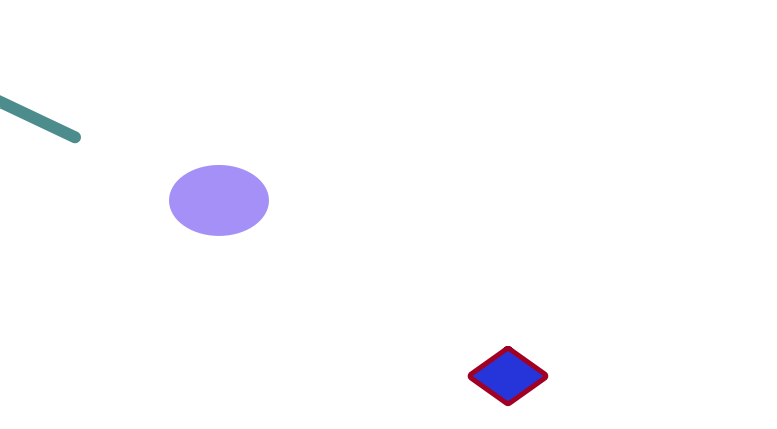
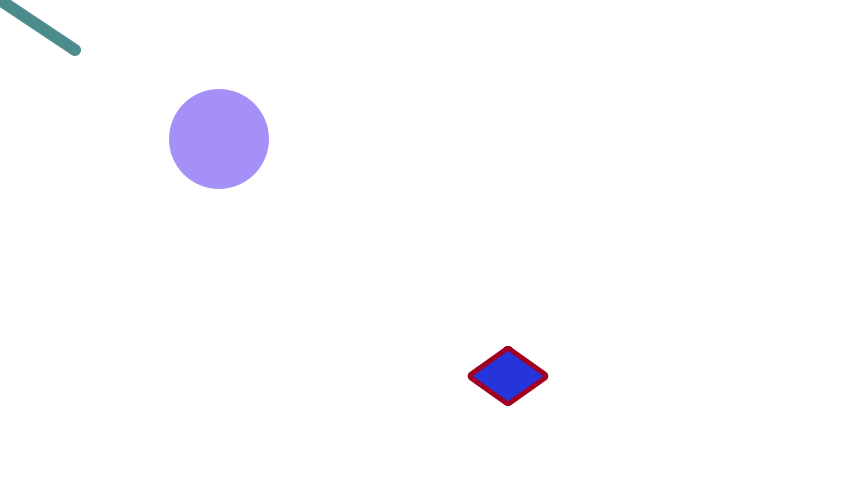
Fix skewing issues

diff --git a/src/fabricShape.go b/src/fabricShape.go
@@ -1,45 +1,10 @@
 package main
 
 import (
-	"math"
 	"strings"
 
 	"github.com/fogleman/gg"
 )
-
-type fabricBaseObject struct {
-	Version string        `json:"version"`
-	Objects []fabricShape `json:"objects"`
-}
-
-func (f *fabricBaseObject) GetBounds() (float64, float64) {
-	minX := 0.0
-	minY := 0.0
-	maxX := math.Inf(-1)
-	maxY := math.Inf(-1)
-
-	for _, o := range f.Objects {
-		// Get the bounds of a shape--keeping in mind its rotation
-		width := math.Sin(o.Angle)*o.Height + math.Cos(o.Angle)*o.Width + o.StrokeWidth
-		height := math.Sin(o.Angle)*o.Width + math.Cos(o.Angle)*o.Height + o.StrokeWidth
-
-		minX = math.Min(o.Left, minX)
-		minY = math.Min(o.Top, minY)
-		maxX = math.Max(o.Left+width, maxX)
-		maxY = math.Max(o.Top+height, maxY)
-	}
-
-	// Doesn't make sense to make an image negative width or height
-	if maxX < 0 {
-		maxX = 0
-	}
-
-	if maxY < 0 {
-		maxY = 0
-	}
-
-	return maxX - minX, maxY - minY
-}
 
 type fabricShape struct {
 	ShapeType   string  `json:"type"`
@@ -88,7 +53,9 @@ func (s *fabricShape) drawShapeType(ctx *gg.Context) {
 	}
 }
 
+// Adds the current shape to the gg canvas
 func (s *fabricShape) Parse(ctx *gg.Context) {
+	ctx.Push()
 	if s.ScaleX != 1 || s.ScaleY != 1 {
 		ctx.ScaleAbout(s.ScaleX, s.ScaleY, s.Left, s.Top)
 	}
@@ -111,11 +78,5 @@ func (s *fabricShape) Parse(ctx *gg.Context) {
 		ctx.Fill()
 	}
 
-	if s.Angle != 0 {
-		ctx.RotateAbout(-gg.Radians(s.Angle), s.Left, s.Top)
-	}
-
-	if s.ScaleX != 1 || s.ScaleY != 1 {
-		ctx.ScaleAbout(1, 1, s.Left, s.Top)
-	}
+	ctx.Pop()
 }

diff --git a/src/fabricBaseObject.go b/src/fabricBaseObject.go
@@ -1,0 +1,47 @@
+package main
+
+import "math"
+
+// FabricBaseObject Parent object of the canvas JSON object
+type FabricBaseObject struct {
+	Version string        `json:"version"`
+	Objects []fabricShape `json:"objects"`
+}
+
+// GetBounds Gets the size of the fabric image
+func (f *FabricBaseObject) GetBounds() (float64, float64) {
+	minX := 0.0
+	minY := 0.0
+	maxX := math.Inf(-1)
+	maxY := math.Inf(-1)
+
+	for _, o := range f.Objects {
+		// Get the bounds of a shape--keeping in mind its rotation
+		width := math.Sin(o.Angle)*o.Height + math.Cos(o.Angle)*o.Width + o.StrokeWidth
+		height := math.Sin(o.Angle)*o.Width + math.Cos(o.Angle)*o.Height + o.StrokeWidth
+
+		left := o.Left
+		top := o.Top
+
+		if o.ShapeType == line {
+			left = o.X1
+			top = o.Y1
+		}
+
+		minX = math.Min(left, minX)
+		minY = math.Min(top, minY)
+		maxX = math.Max(left+width, maxX)
+		maxY = math.Max(top+height, maxY)
+	}
+
+	// Doesn't make sense to make an image negative width or height
+	if maxX < 0 {
+		maxX = 0
+	}
+
+	if maxY < 0 {
+		maxY = 0
+	}
+
+	return maxX - minX, maxY - minY
+}

diff --git a/src/main.go b/src/main.go
@@ -13,7 +13,7 @@ func printArgList() {
 	fmt.Println("fti [inputFileName] [outputFileName]")
 }
 
-func getFabricJSONFromFile(path string) (*fabricBaseObject, error) {
+func getFabricJSONFromFile(path string) (*FabricBaseObject, error) {
 	file, err := os.Open(path)
 	defer file.Close()
 
@@ -21,7 +21,7 @@ func getFabricJSONFromFile(path string) (*fabricBaseObject, error) {
 		return nil, err
 	}
 
-	fabricObj := &fabricBaseObject{}
+	fabricObj := &FabricBaseObject{}
 	if json.NewDecoder(file).Decode(fabricObj) != nil {
 		return nil, err
 	}
